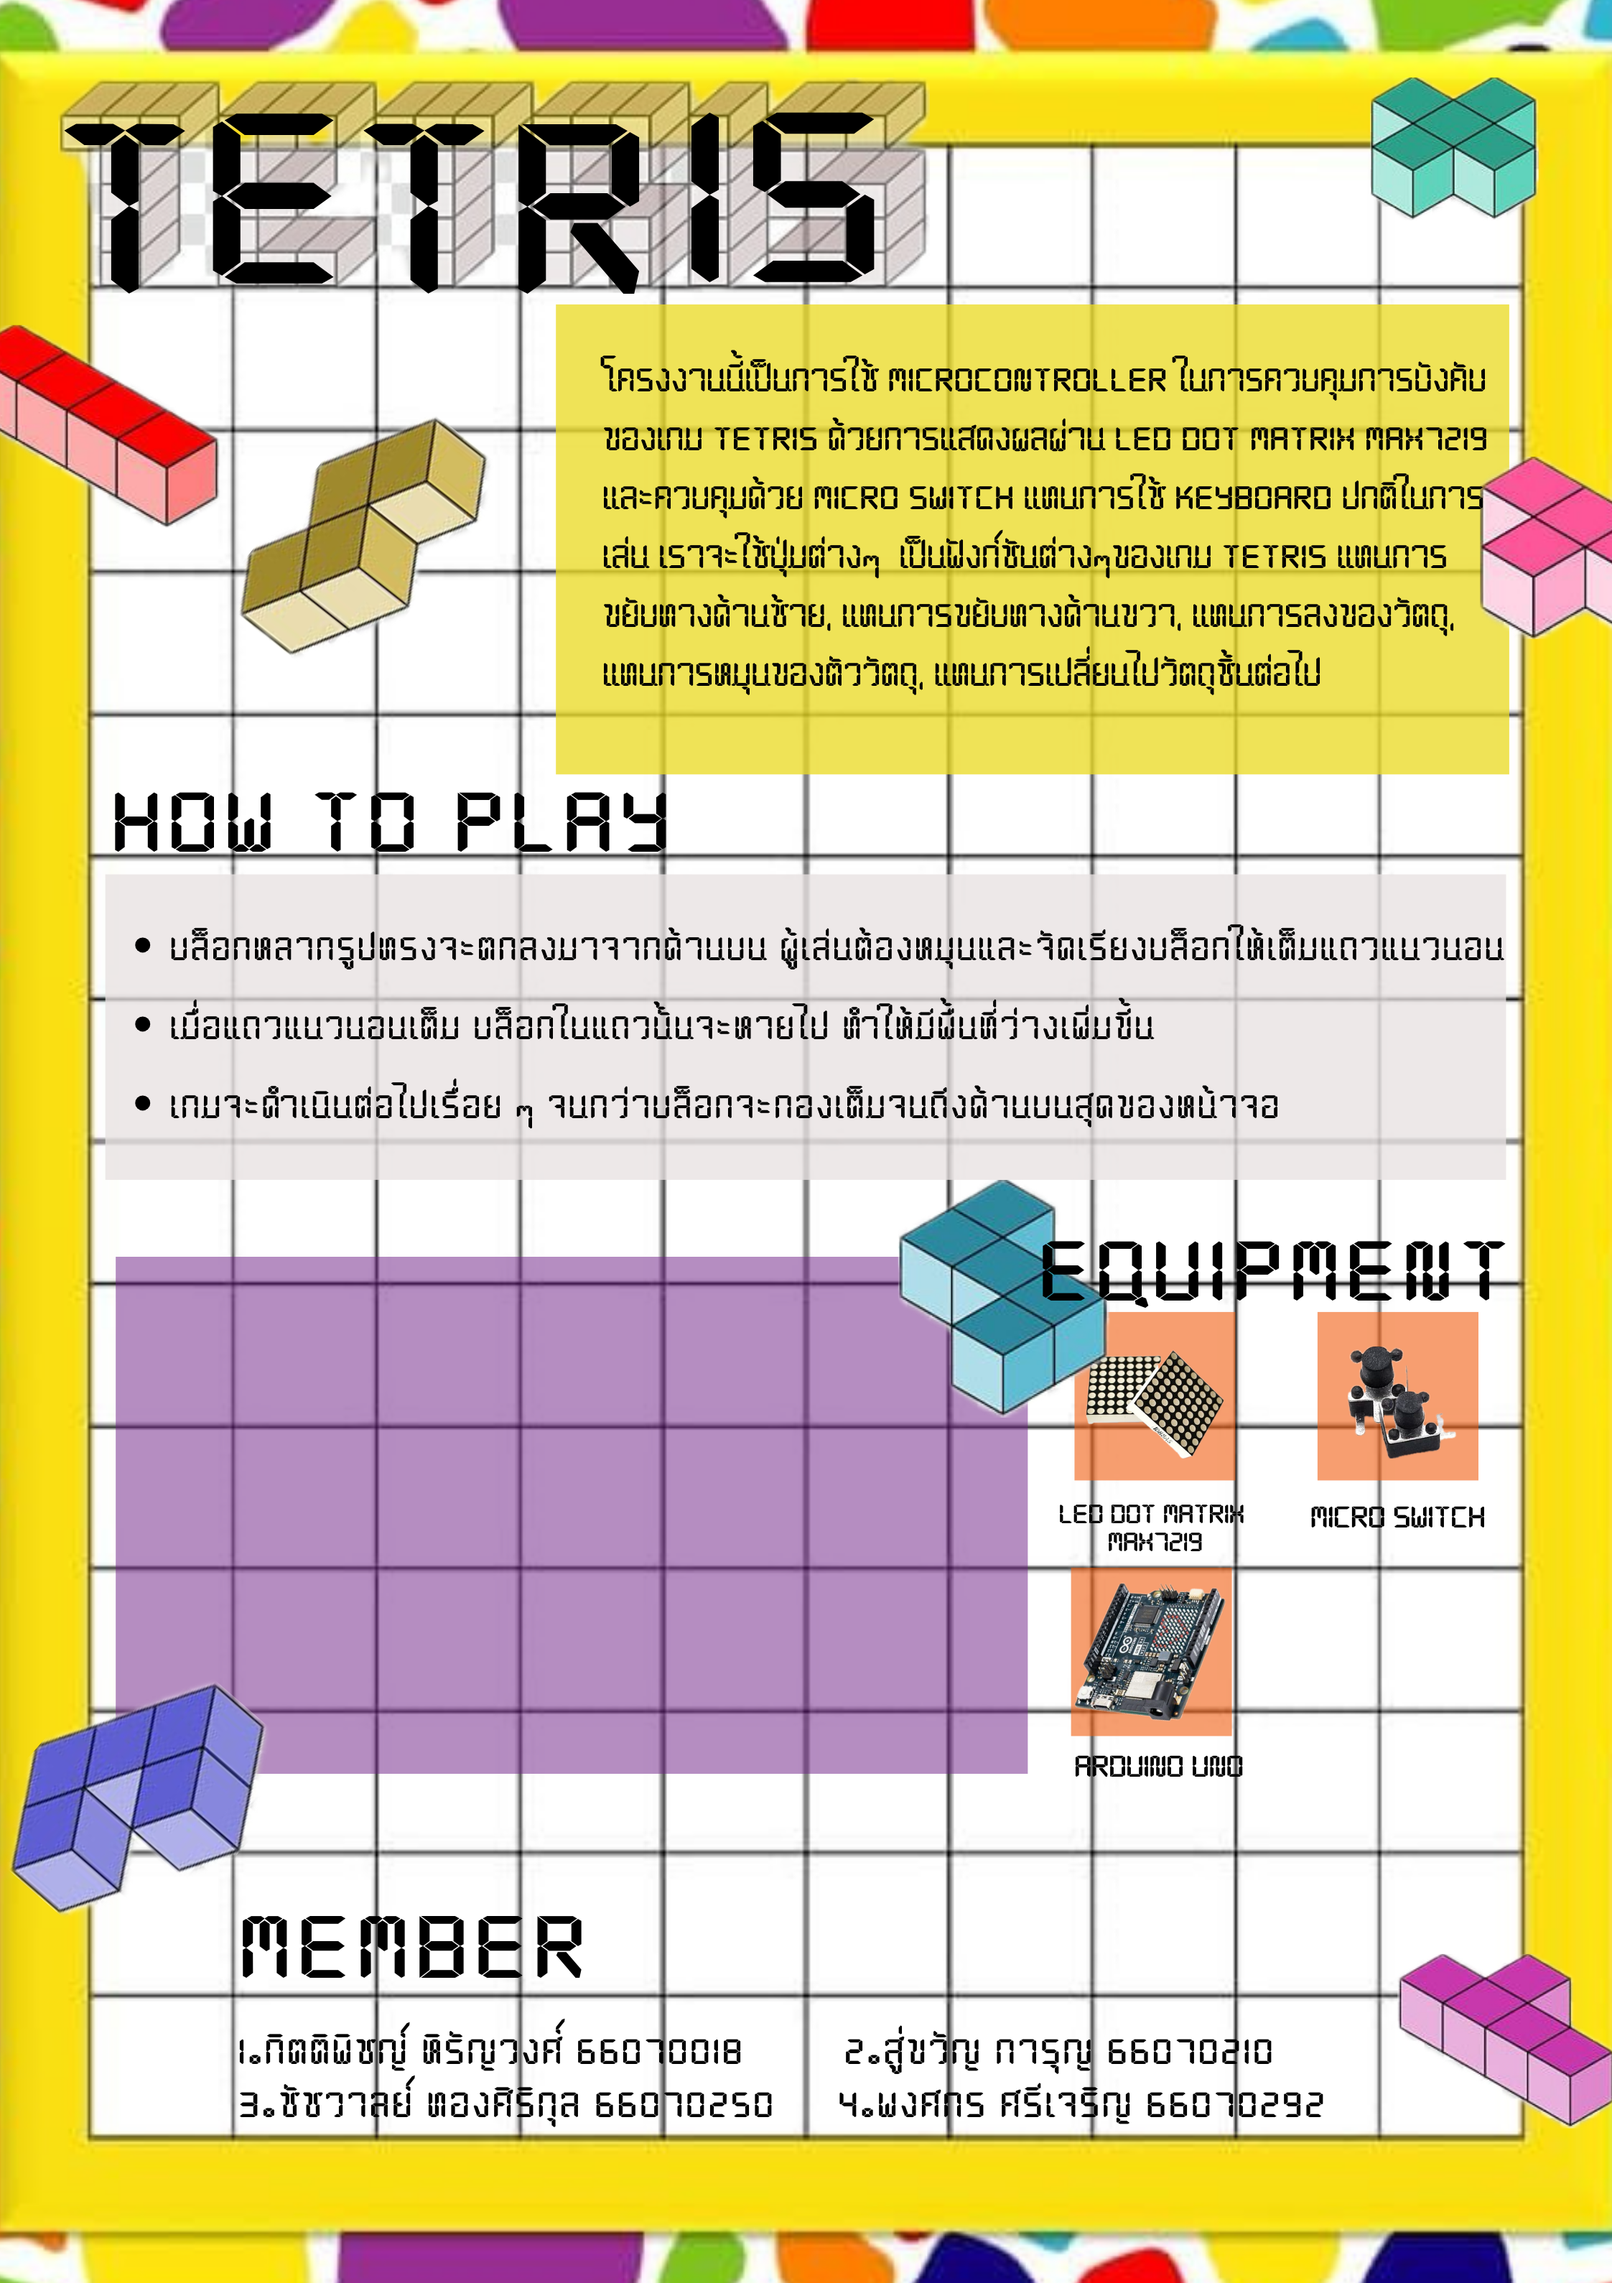
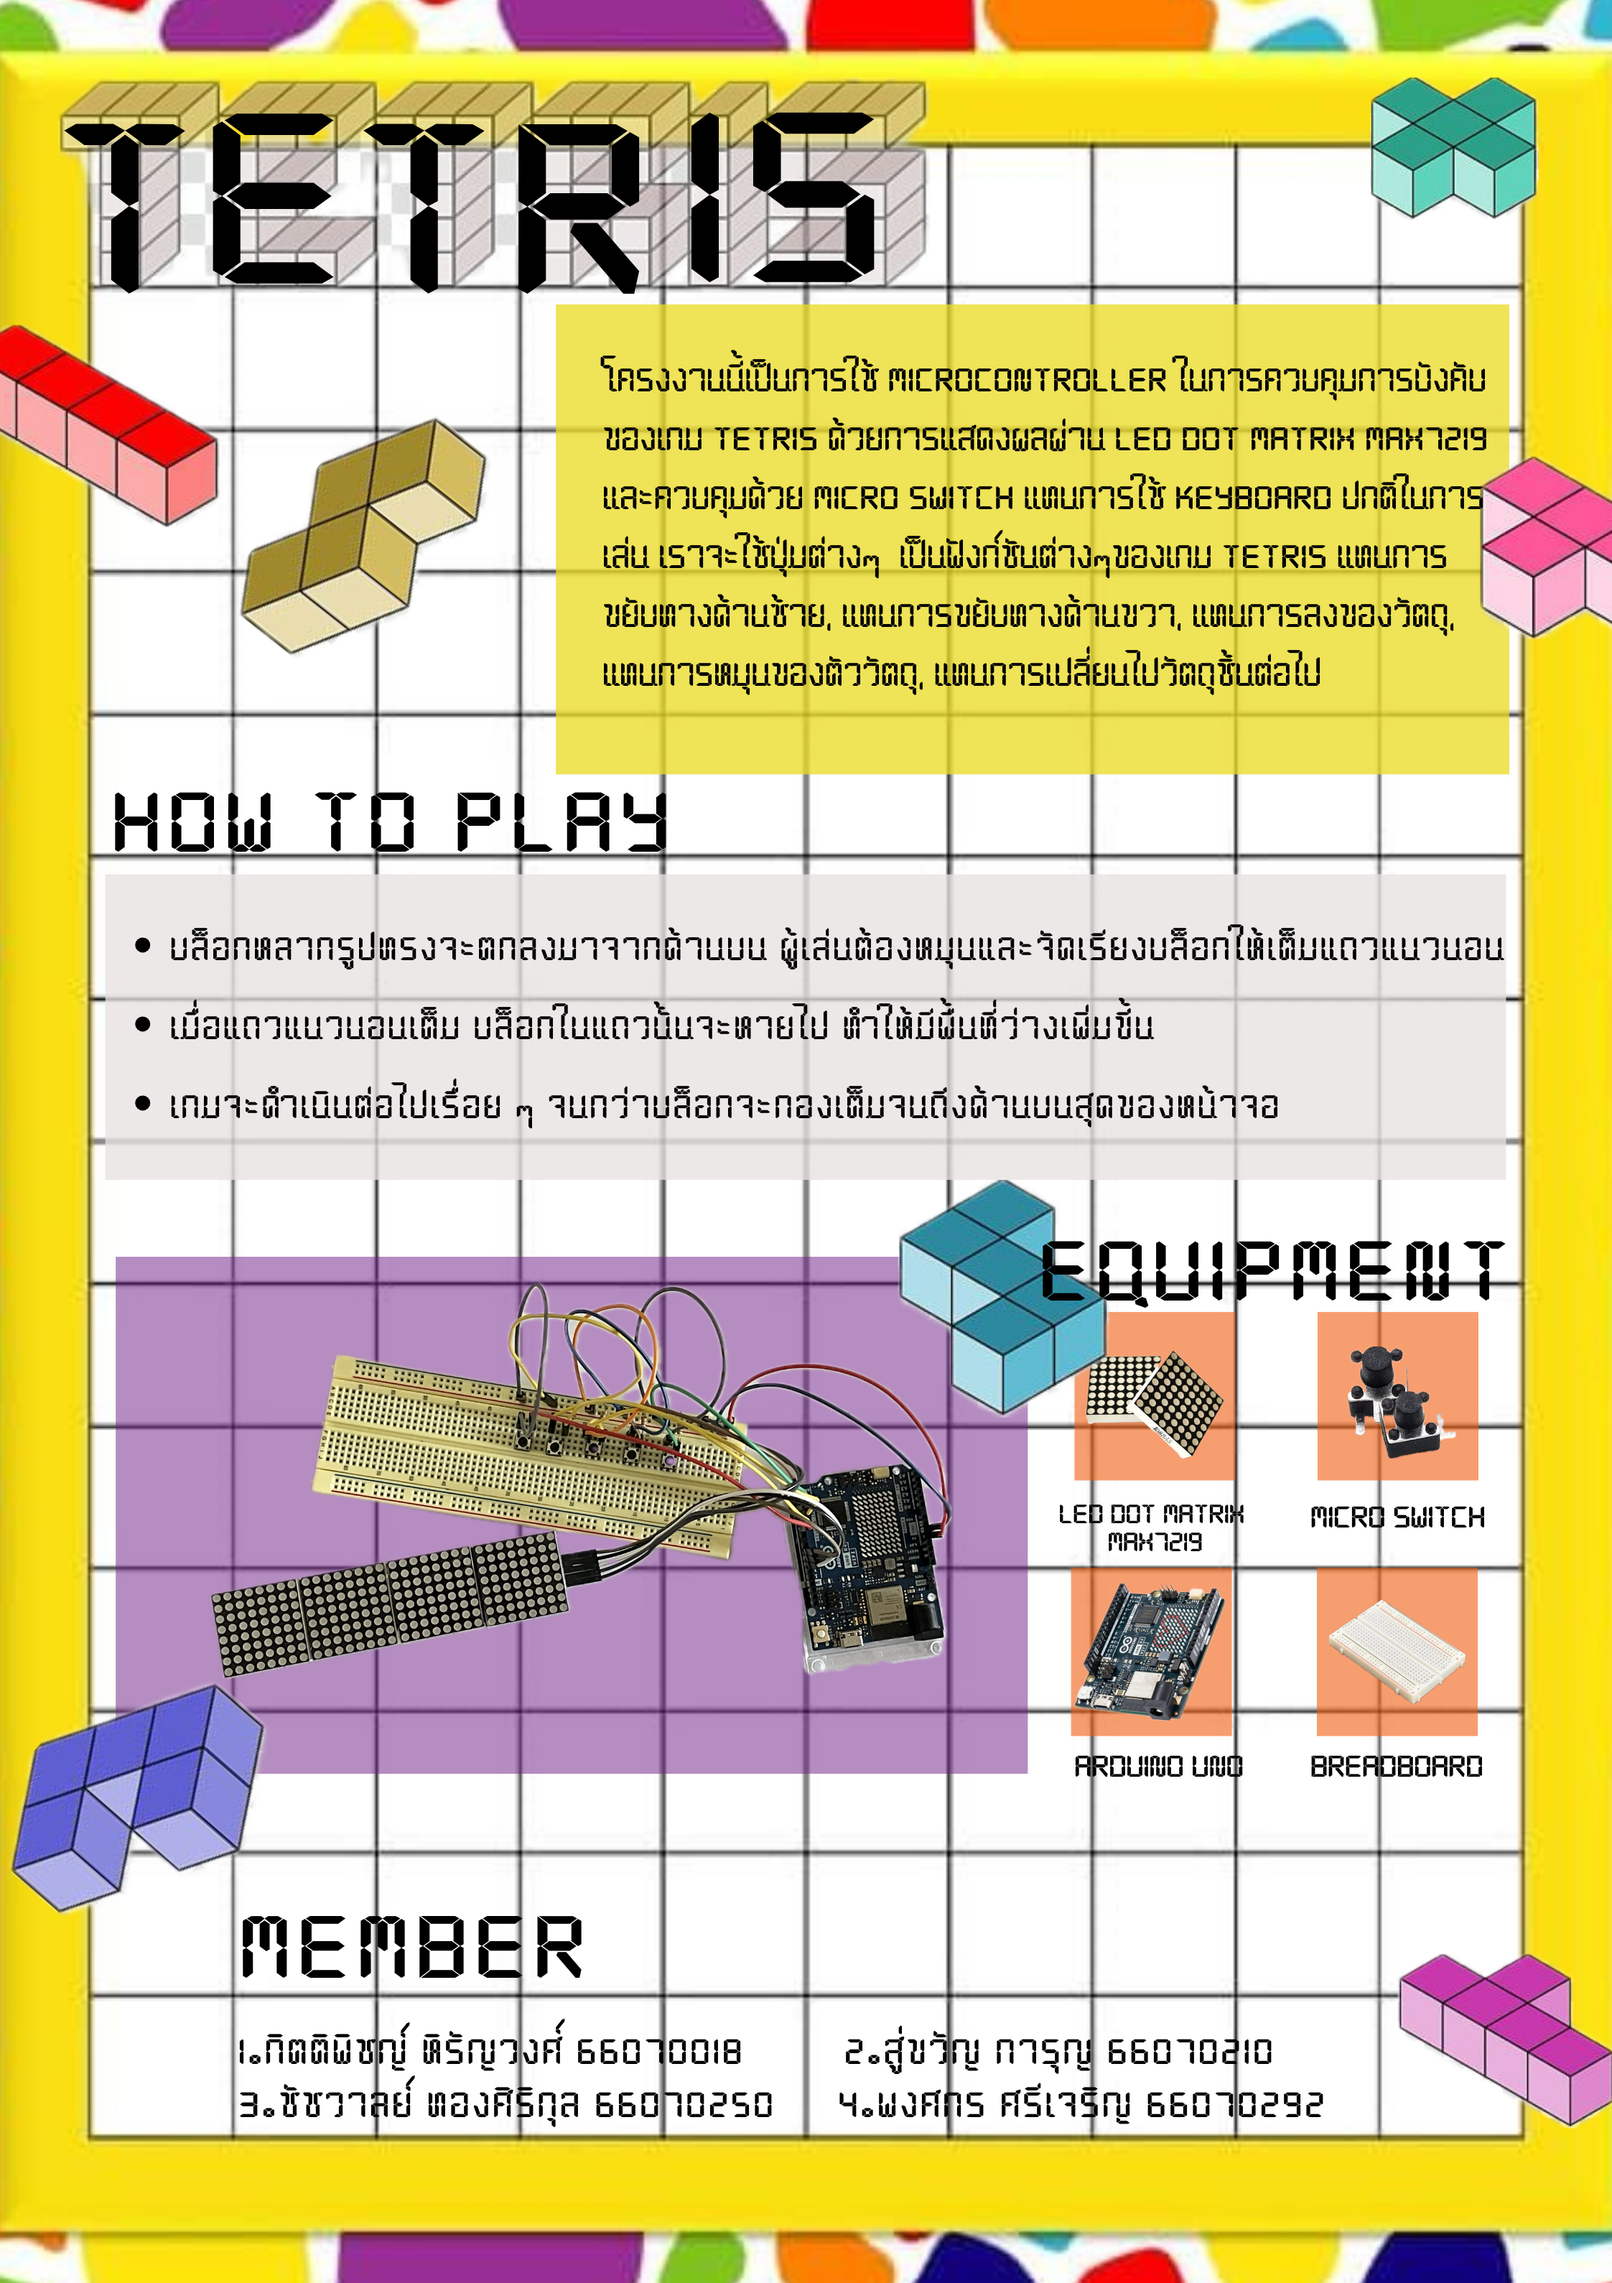
poster

Changed region(s): [[0.1247, 0.5606, 0.5924, 0.7474], [0.8107, 0.6851, 0.9354, 0.7785]]

diff --git a/style.css b/style.css
@@ -268,10 +268,10 @@ section {
 
 /* Profile Image Styles */
 .profile-image {
-    width: 100%;
-    height: 80vh;
-    border-radius: 10px;
-    margin-bottom: none;
+    width: 50vh; /* Adjust as needed */
+    height: 50vh;
+    max-height: 400px;
+    margin-right: 100px; /* Adds space between the image and button */
 }
 
 
@@ -284,18 +284,17 @@ section {
     margin-bottom: 10px;
     
 }
-.button5{
+.button5 {
     display: flex;
-    justify-content: center;
-    width: 100%;
-    margin-top: 5px;
+    align-items: center;
+    margin-top: 5px; /* Remove top margin to align with image */
 }
 
 .github-button {
     background-color: #ffffff;
     color: black;
     font-size: 1.8rem;
-    padding: 22px 68px;
+    padding: 20px 48px;
     border: none;
     border-radius: 20px;
     cursor: pointer;
@@ -303,9 +302,10 @@ section {
     display: flex;
 }
 
-.sec5low{
+.sec5low {
     display: flex;
-    flex-direction: row;
+    justify-content: center;
+    align-items: flex-start; /* Aligns items at the top */
 }
 
 #section5 a{
@@ -378,6 +378,7 @@ section {
     font-size: 45px;
     color: #ffffff;
     margin-bottom: none;
+    margin-top: 48px
     
 }
 
@@ -387,22 +388,18 @@ section {
    width: 100%;
    justify-content: center;
    padding-bottom: 17%;
+   margin-top: 70px;
 }
 
 .member {
-
-    width: 250px;
-    height: 250px;
-    text-align: center;
-    color: white;
-    margin-bottom: 20px;
+    width: 42vh; /* Increase width to make images larger */
+    height: 42vh; /* Increase height accordingly */
+    margin-bottom: 10px; /* Reduce bottom margin to minimize spacing */
 }
 
 .member-image {
-    width: 200px;
-    height: 200px;
-    background-color: #d9d9d9;
-    border-radius: 5px;
+    width: 40vh; /* Increase width of images */
+    height: 42vh; /* Increase height of images */
 }
 
 .member p {
@@ -441,8 +438,21 @@ html {
         flex-direction: column;
     }
 
-    .sec5low{
+    .sec5low {
+        display: flex;
         flex-direction: column;
+        align-items: center;
+    }
+
+    .profile-image {
+        width: 50vh; /* Adjust size for smaller screens */
+        margin-right: 0; /* Remove right margin */
+    }
+
+    .button5 {
+        margin-top: 10px; /* Add a small margin for spacing */
+        display: flex;
+        justify-content: center;
     }
 }
 

diff --git a/index.html b/index.html
@@ -66,6 +66,10 @@
                             <img src="image/Micro Switch.jpg" alt="A" class="equipment-image">
                             <p>Micro Switch</p>
                         </div>
+                        <div class="eq4">
+                            <img src="image/breadborad.JPG" alt="A" class="equipment-image">
+                            <p>Micro Switch</p>
+                        </div>
                     </div>
                 </div>
             </div>
@@ -85,16 +89,16 @@
     <section id="section5">
         <div class="content5">
             <div class="src"><h1 class="sect5">Source Code</h1></div>
-            <div class="sec5low"><img src="image/Screenshot 2024-10-26 010555.png" alt="Profile Image" class="profile-image">
-            <div class="button5">
-                <a href="https://github.com/Chatpingkai/TERTRIS-VOICE-VERSION" target="_blank">
-                    <button class="github-button">Github</button>
-                </a>
-            </div>
+            <div class="sec5low">
+                <img src="image/Screenshot 2024-10-26 010555.png" alt="Profile Image" class="profile-image">
+                <div class="button5">
+                    <a href="https://github.com/Chatpingkai/TERTRIS-VOICE-VERSION" target="_blank">
+                        <button class="github-button">Github</button>
+                    </a>
+                </div>
             </div>
         </div>
     </section>
-
     <section id="section6">
         <div class="content6">
             <h1 class="sect6">Video Demo</h1>
@@ -110,7 +114,7 @@
             <h1>Member</h1>
             <div class="member-grid">
                 <div class="member">
-                    <img src="source_code.png" class="member-image" alt="Profile Image">
+                    <img src="image/pete.jpg" class="member-image" alt="Profile Image">
                     <p>นายกิตติพิชญ์ หิรัญวงศ์<br>รหัสนักศึกษา <strong>66070018</strong></p>
                 </div>
                 <div class="member">
